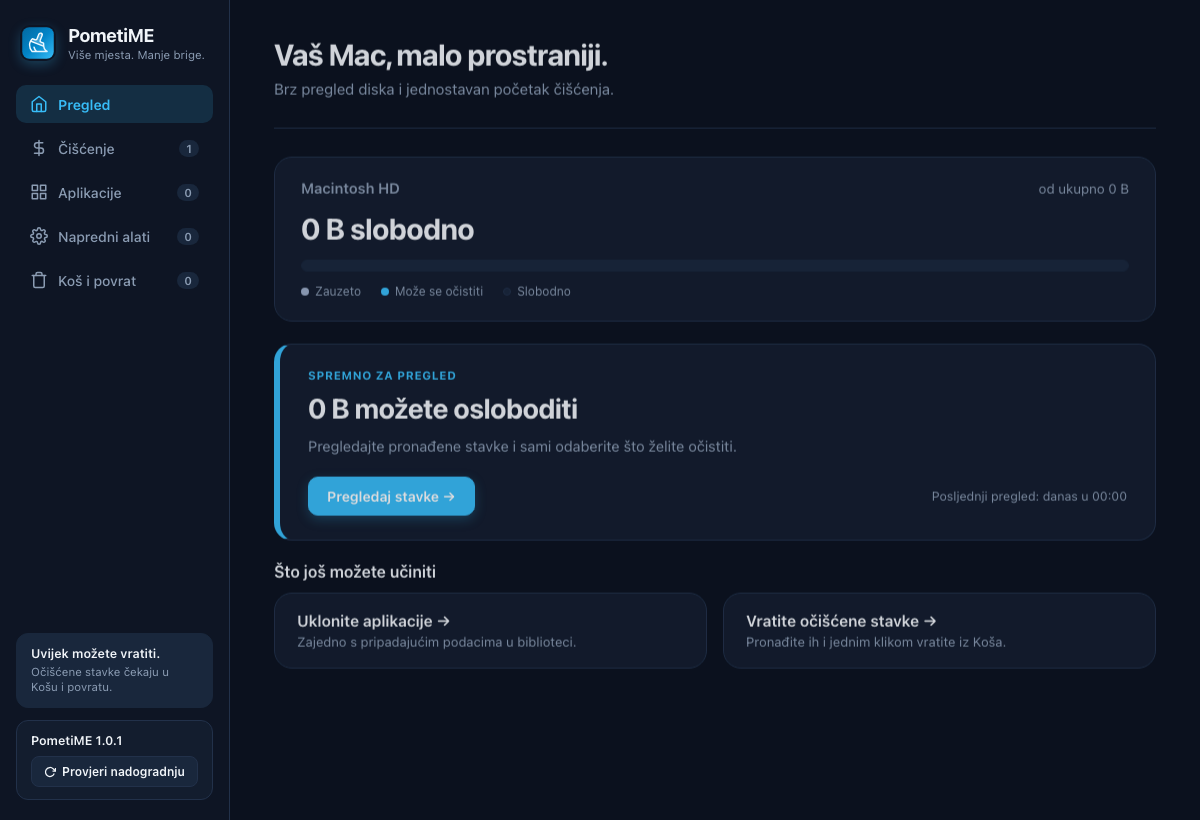
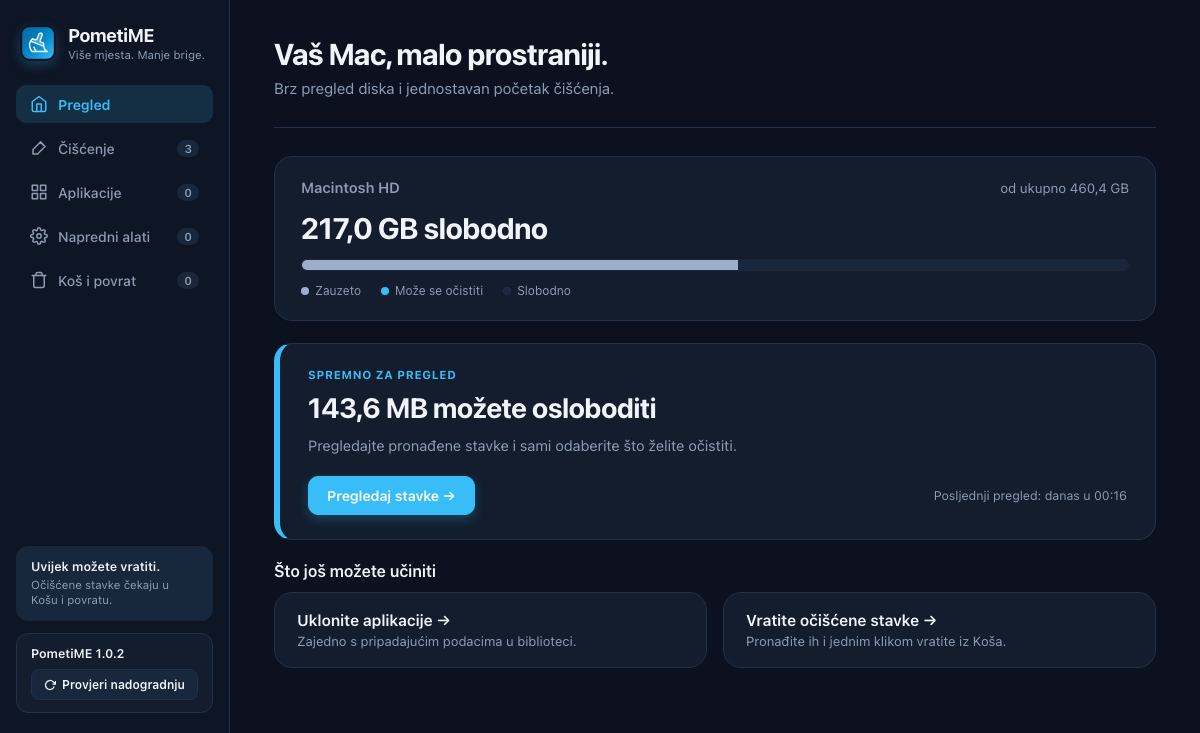
Ispravak prikaza stanja diska i ikonice ciscenja u sucelju

diff --git a/internal/web/sucelje.html b/internal/web/sucelje.html
@@ -1114,7 +1114,7 @@
       </li>
       <li>
         <button type="button" class="nav-btn" data-tab="ciscenje">
-          <svg class="nav-icon" viewBox="0 0 24 24"><path d="M12 2v20M17 5H9.5a3.5 3.5 0 0 0 0 7h5a3.5 3.5 0 0 1 0 7H6"/></svg>
+          <svg class="nav-icon" viewBox="0 0 24 24"><path d="m14 4 6 6-10 10H4v-6L14 4z"/><path d="m18 8-4-4"/></svg>
           <span class="nav-title">Čišćenje</span>
           <span class="nav-badge" id="badge-ciscenje">0</span>
         </button>
@@ -1560,7 +1560,13 @@
             izlaz.push('</ul>');
             uListi = false;
           }
-          if (linija.trim()) izlaz.push('<p>' + linija + '</p>');
+          if (linija.trim()) {
+            if (/^<h[1-6]>/.test(linija.trim())) {
+              izlaz.push(linija.trim());
+            } else {
+              izlaz.push('<p>' + linija.trim() + '</p>');
+            }
+          }
         }
       }
       if (uListi) izlaz.push('</ul>');
@@ -1652,19 +1658,19 @@
     // 1. ISCRTAVANJE: PREGLED
     function iscrtajPregled() {
       if (!stanje.izvjestaj) return;
-      const d = stanje.izvjestaj.disk_info;
+      const d = stanje.izvjestaj.disk || stanje.izvjestaj.disk_info;
       if (d) {
-        document.getElementById('disk-slobodno').textContent = formatirajBajte(d.free_bytes) + ' slobodno';
+        const slobodno = d.avail_bytes !== undefined ? d.avail_bytes : (d.free_bytes !== undefined ? d.free_bytes : 0);
+        document.getElementById('disk-slobodno').textContent = formatirajBajte(slobodno) + ' slobodno';
         document.getElementById('disk-ukupno').textContent = 'od ukupno ' + formatirajBajte(d.total_bytes);
         
         let preporucenoBajta = 0;
         const sveKategorije = [
-          ...(stanje.izvjestaj.system_cache || []),
-          ...(stanje.izvjestaj.app_cache || []),
+          ...(stanje.izvjestaj.system_caches || stanje.izvjestaj.system_cache || []),
           ...(stanje.izvjestaj.dev_ai_junk || []),
-          ...(stanje.izvjestaj.app_leftovers || []),
+          ...(stanje.izvjestaj.leftovers || stanje.izvjestaj.app_leftovers || []),
           ...(stanje.izvjestaj.backups_attachments || []),
-          ...(stanje.izvjestaj.installer_files || [])
+          ...(stanje.izvjestaj.installers || stanje.izvjestaj.installer_files || [])
         ];
         for (const s of sveKategorije) {
           if (s.recommended) preporucenoBajta += s.size_bytes;
@@ -1697,12 +1703,11 @@
       }
 
       const kategorije = [
-        { kljuc: 'system_cache', naziv: 'Predmemorija sustava', opis: 'Sustavski zapisnici i privremeni podaci macOS-a.', stavke: stanje.izvjestaj.system_cache || [] },
-        { kljuc: 'app_cache', naziv: 'Privremene datoteke aplikacija', opis: 'Aplikacije će ih po potrebi ponovno izraditi.', stavke: stanje.izvjestaj.app_cache || [] },
-        { kljuc: 'dev_ai_junk', naziv: 'Razvojna i AI predmemorija', opis: 'Preuzeti paketi alata i završene sesije. Memorija je sačuvana.', stavke: stanje.izvjestaj.dev_ai_junk || [] },
-        { kljuc: 'app_leftovers', naziv: 'Ostaci uklonjenih aplikacija', opis: 'Podaci aplikacija koje više nisu instalirane na Macu.', stavke: stanje.izvjestaj.app_leftovers || [] },
-        { kljuc: 'backups_attachments', naziv: 'Sigurnosne kopije i privici', opis: 'Stare iOS sigurnosne kopije i preuzeti Mail privici.', stavke: stanje.izvjestaj.backups_attachments || [] },
-        { kljuc: 'installer_files', naziv: 'Stare instalacijske datoteke', opis: 'Preuzeti instaleri (.dmg, .pkg, .iso) u mapi Preuzimanja.', stavke: stanje.izvjestaj.installer_files || [] }
+        { kljuc: 'system_caches', naziv: 'Predmemorija sustava', opis: 'Sustavski zapisnici i privremeni podaci macOS-a.', stavke: (stanje.izvjestaj.system_caches || stanje.izvjestaj.system_cache || []) },
+        { kljuc: 'dev_ai_junk', naziv: 'Razvojna i AI predmemorija', opis: 'Preuzeti paketi alata, simulatori i završene AI sesije.', stavke: (stanje.izvjestaj.dev_ai_junk || []) },
+        { kljuc: 'leftovers', naziv: 'Ostaci uklonjenih aplikacija', opis: 'Podaci aplikacija koje više nisu instalirane na Macu.', stavke: (stanje.izvjestaj.leftovers || stanje.izvjestaj.app_leftovers || []) },
+        { kljuc: 'backups_attachments', naziv: 'Sigurnosne kopije i privici', opis: 'Stare iOS sigurnosne kopije i preuzeti Mail privici.', stavke: (stanje.izvjestaj.backups_attachments || []) },
+        { kljuc: 'installers', naziv: 'Stare instalacijske datoteke', opis: 'Preuzeti instaleri (.dmg, .pkg, .iso) u mapi Preuzimanja.', stavke: (stanje.izvjestaj.installers || stanje.izvjestaj.installer_files || []) }
       ];
 
       let ukupnoPreporucenih = 0;
@@ -1860,9 +1865,9 @@
       // Izračunaj veličine za glavne kartice
       if (stanje.izvjestaj) {
         let velDev = 0; for (const s of (stanje.izvjestaj.dev_ai_junk || [])) velDev += s.size_bytes;
-        let velOst = 0; for (const s of (stanje.izvjestaj.app_leftovers || [])) velOst += s.size_bytes;
+        let velOst = 0; for (const s of (stanje.izvjestaj.leftovers || stanje.izvjestaj.app_leftovers || [])) velOst += s.size_bytes;
         let velKop = 0; for (const s of (stanje.izvjestaj.backups_attachments || [])) velKop += s.size_bytes;
-        let velIns = 0; for (const s of (stanje.izvjestaj.installer_files || [])) velIns += s.size_bytes;
+        let velIns = 0; for (const s of (stanje.izvjestaj.installers || stanje.izvjestaj.installer_files || [])) velIns += s.size_bytes;
         document.getElementById('velicina-napredni-dev').textContent = formatirajBajte(velDev);
         document.getElementById('velicina-napredni-ostaci').textContent = formatirajBajte(velOst);
         document.getElementById('velicina-napredni-kopije').textContent = formatirajBajte(velKop);
@@ -1897,9 +1902,9 @@
     function iscrtajAlatStavke(alatKljuc, spremnik) {
       const mapaNaziva = {
         dev_ai: { naslov: 'Razvojni i AI alati', opis: 'Međuspremnici programskih jezika, simulatori i Claude radne sesije.', stavke: (stanje.izvjestaj && stanje.izvjestaj.dev_ai_junk) || [] },
-        ostaci: { naslov: 'Ostaci uklonjenih aplikacija', opis: 'Zaostale mape aplikacija koje su uklonjene iz mape Applications.', stavke: (stanje.izvjestaj && stanje.izvjestaj.app_leftovers) || [] },
+        ostaci: { naslov: 'Ostaci uklonjenih aplikacija', opis: 'Zaostale mape aplikacija koje su uklonjene iz mape Applications.', stavke: (stanje.izvjestaj && (stanje.izvjestaj.leftovers || stanje.izvjestaj.app_leftovers)) || [] },
         kopije: { naslov: 'Kopije i privici', opis: 'Stare lokalne iOS sigurnosne kopije i Mail privici.', stavke: (stanje.izvjestaj && stanje.izvjestaj.backups_attachments) || [] },
-        instaleri: { naslov: 'Stari instaleri u Preuzimanjima', opis: 'Instalacijske datoteke (.dmg, .pkg, .iso, .xip) u ~/Downloads.', stavke: (stanje.izvjestaj && stanje.izvjestaj.installer_files) || [] }
+        instaleri: { naslov: 'Stari instaleri u Preuzimanjima', opis: 'Instalacijske datoteke (.dmg, .pkg, .iso, .xip) u ~/Downloads.', stavke: (stanje.izvjestaj && (stanje.izvjestaj.installers || stanje.izvjestaj.installer_files)) || [] }
       };
 
       const meta = mapaNaziva[alatKljuc];
@@ -2144,7 +2149,8 @@
 
         const opis = document.createElement('span');
         opis.className = 'item-desc';
-        opis.textContent = (st.moved_at ? st.moved_at + ' \u00B7 ' : '') + 'Izvorna lokacija: ' + (st.original_path || 'nepoznato');
+        const datum = st.deleted_at || st.moved_at;
+        opis.textContent = (datum ? datum + ' \u00B7 ' : '') + 'Izvorna lokacija: ' + (st.original_path || 'nepoznato');
 
         tijelo.append(naslov, opis);
 
@@ -2509,12 +2515,11 @@
         // Početni odabir: označi preporučene stavke
         stanje.odabranePutanje.clear();
         const sve = [
-          ...(stanje.izvjestaj.system_cache || []),
-          ...(stanje.izvjestaj.app_cache || []),
+          ...(stanje.izvjestaj.system_caches || stanje.izvjestaj.system_cache || []),
           ...(stanje.izvjestaj.dev_ai_junk || []),
-          ...(stanje.izvjestaj.app_leftovers || []),
+          ...(stanje.izvjestaj.leftovers || stanje.izvjestaj.app_leftovers || []),
           ...(stanje.izvjestaj.backups_attachments || []),
-          ...(stanje.izvjestaj.installer_files || [])
+          ...(stanje.izvjestaj.installers || stanje.izvjestaj.installer_files || [])
         ];
         for (const st of sve) {
           if (st.recommended) stanje.odabranePutanje.set(st.path, st.size_bytes);
